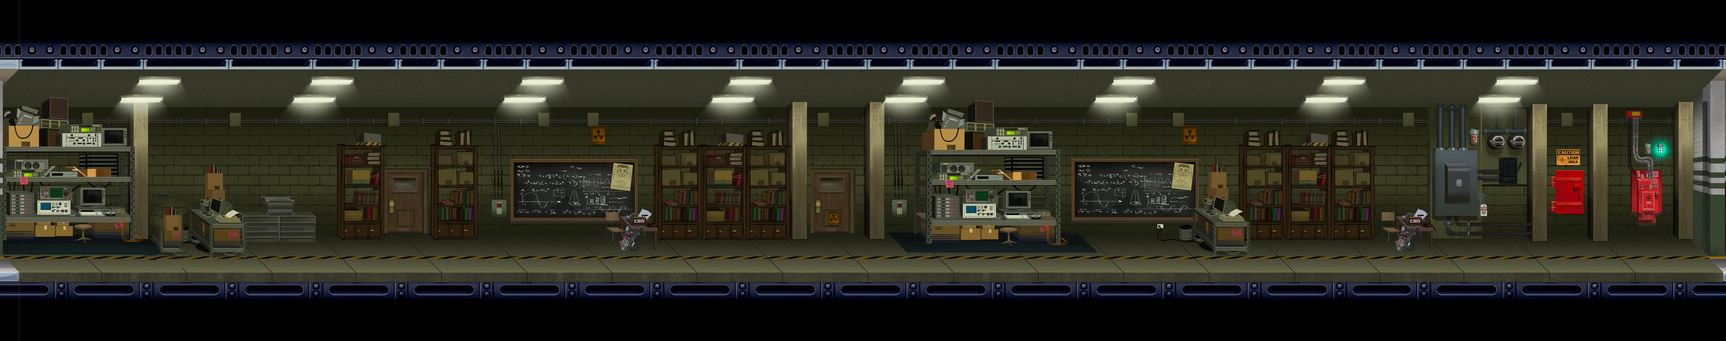
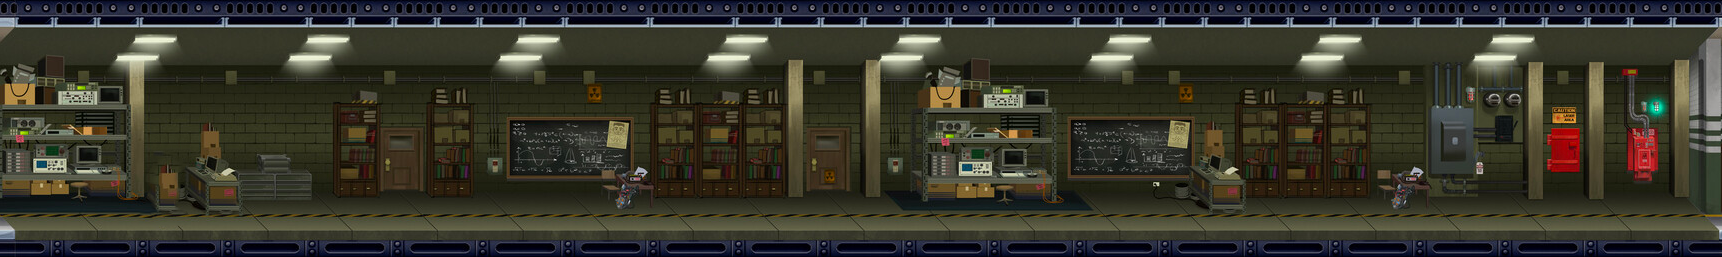
:sparkles: Adding a Game class with a moving background

diff --git a/src/client/Game/Game.cpp b/src/client/Game/Game.cpp
@@ -1,0 +1,49 @@
+//
+// Created by roussierenoa on 4/11/25.
+//
+
+#include "Game.hpp"
+
+#include <iostream>
+
+namespace jetpack::Client {
+	void Game::display(sf::RenderWindow &window) {
+		this->_background.display(window);
+	}
+
+	void Game::compute() {
+		if (this->_clock.getElapsedTime().asMilliseconds() >= 25) {
+			this->_clock.restart();
+			auto pos = this->_background.getPos();
+			if (pos.x > -2000)
+				this->_background.changePos({(float)(pos.x - 10), pos.y});
+			// Else  {// end of map}
+		}
+	}
+
+	void Game::_handleKeyPressed(const sf::Event &event) {
+		if (event.key.code == sf::Keyboard::Up) {
+			this->_sendUserInteraction(UserInteractions_s::UP);
+		}
+		// TODO(noa) : demander les autres interaction possible entre le
+		// server et le client
+		if (event.key.code == sf::Keyboard::Escape) {
+			this->_sendUserInteraction(UserInteractions_s::ESCAPE);
+		}
+	}
+
+	void Game::analyze(const sf::Event &event) {
+		if (event.type == sf::Event::KeyPressed)
+			this->_handleKeyPressed(event);
+	}
+
+	Game::Game(std::function<void(UserInteractions_s)> &sendUserInteraction) :
+		_sendUserInteraction(sendUserInteraction),
+		_background("src/client/assets/GameBackground.png", {0, 0}, {2, 2.1})
+	{
+		this->_clock = sf::Clock();
+	}
+
+	Game::~Game() {
+	}
+} // jetpack

diff --git a/src/client/Game/Game.hpp b/src/client/Game/Game.hpp
@@ -1,0 +1,35 @@
+//
+// Created by roussierenoa on 4/11/25.
+//
+
+#ifndef GAME_HPP
+#define GAME_HPP
+#include <functional>
+#include <SFML/Graphics.hpp>
+#include "Sprite.hpp"
+#include "../userInteractions.hpp"
+
+namespace jetpack::Client {
+class Game {
+private:
+   std::function<void(UserInteractions_s)> &_sendUserInteraction;
+
+   Sprite _background;
+   sf::Clock _clock;
+
+   void _handleKeyPressed(const sf::Event &event);
+public:
+   void display(sf::RenderWindow &window);
+
+   void compute();
+
+   void analyze(const sf::Event &event);
+
+   Game(std::function<void(UserInteractions_s)> &sendUserInteraction);
+
+   ~Game();
+};
+
+} // jetpack
+
+#endif //GAME_HPP
